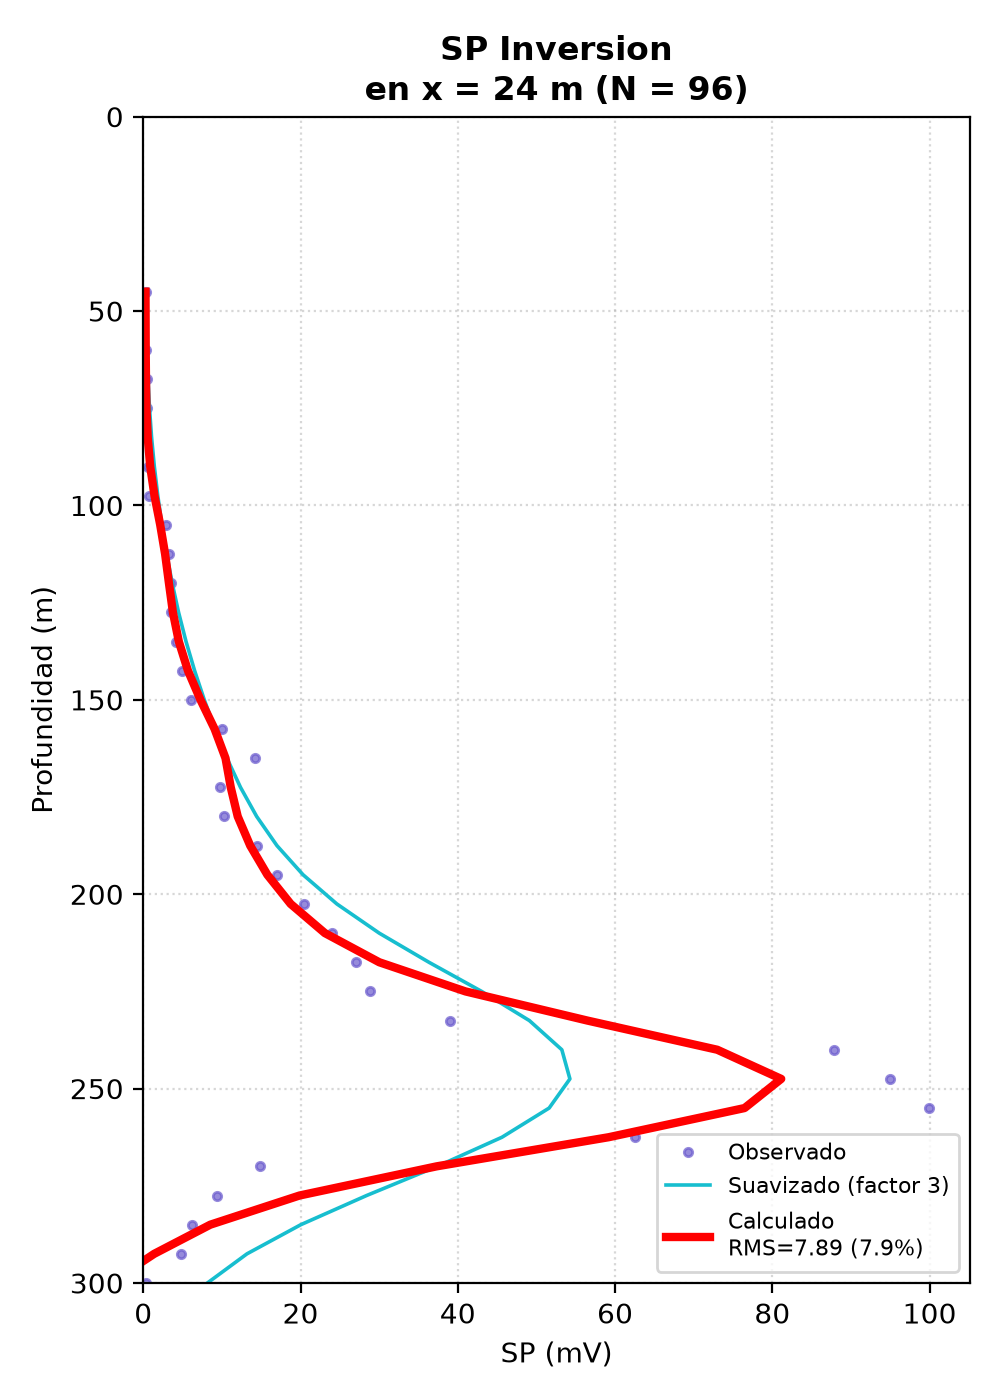
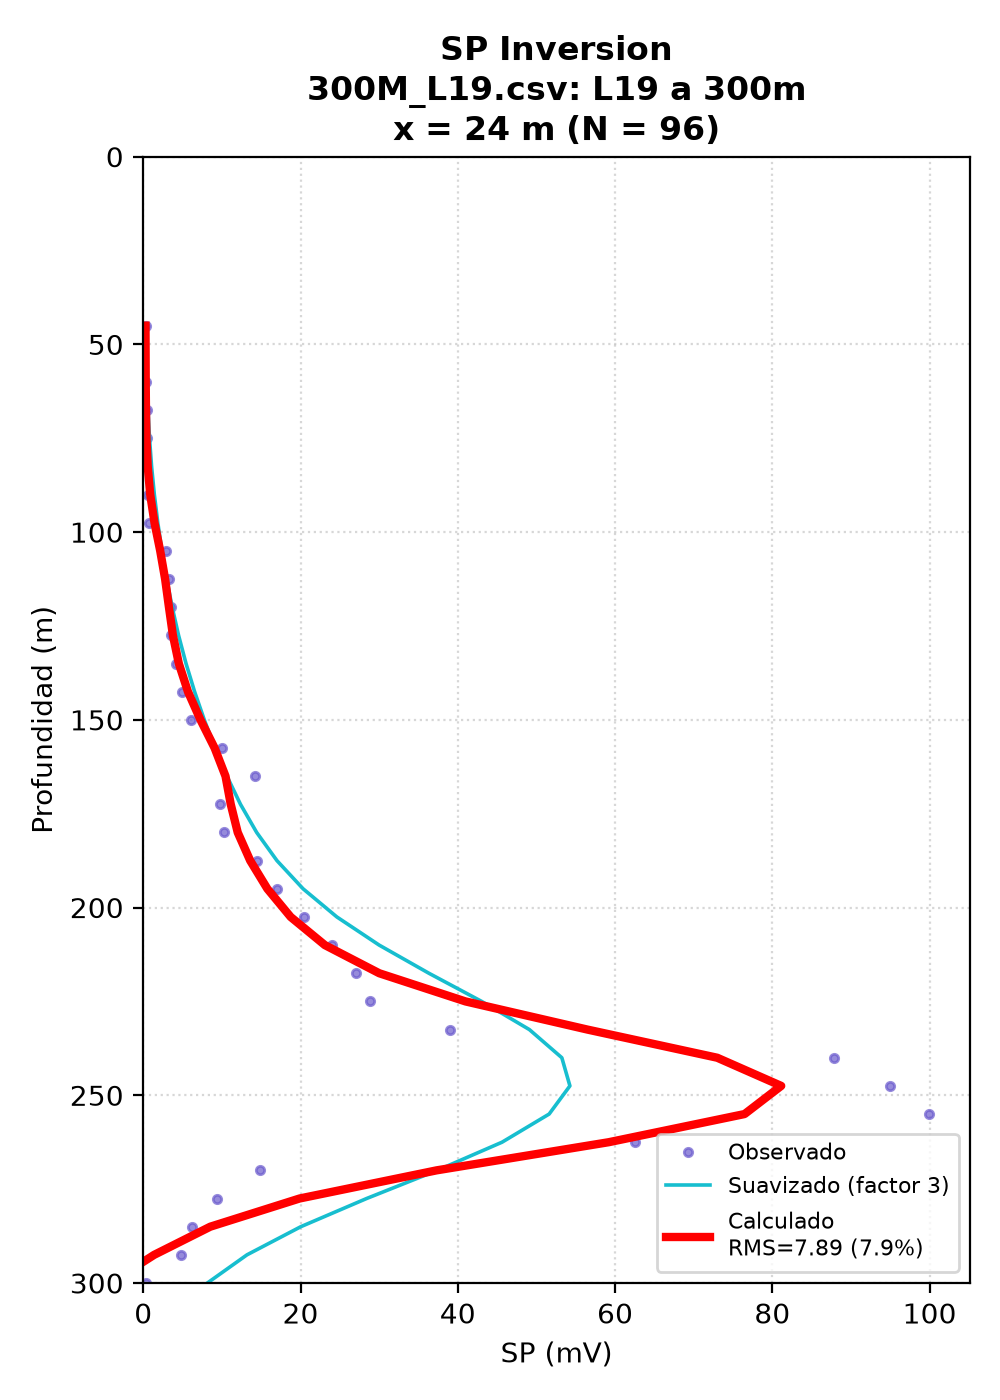
Add source CSV and 'L## a ###m' label to every figure title
Claude-Session: https://claude.ai/code/session_01Q2nGDhSbUmK7afAcFQ8b9A

diff --git a/tefsm_figuras.py b/tefsm_figuras.py
@@ -129,6 +129,13 @@ ESTILOS = {1.1: (":", None), 1.4: ("-", None), 1.6: (":", "^"),
 # ----------------------------------------------------------------------------
 # Figuras 2, 4, 6
 # ----------------------------------------------------------------------------
+def etiqueta_csv(path):
+    """'150M_L89.csv' -> '150M_L89.csv: L89 a 150m' (registro y rango de profundidad del nombre)."""
+    nombre = os.path.basename(path)
+    m = re.match(r"(\d+)\s*M_L(\d+)", os.path.splitext(nombre)[0], re.I)
+    return f"{nombre}: L{m.group(2)} a {m.group(1)}m" if m else nombre
+
+
 def figura_modulo(args):
     df = leer(args.archivo, ["y_m", "f_hz", "ey_mv"], ["fase_deg"])
     y, f, E = a_malla(df, "ey_mv")
@@ -183,6 +190,7 @@ def figura_modulo(args):
         ax.set_title("(c)", y=-0.2)
         fig.colorbar(cf, ax=ax, label="φ / (°)", pad=0.03)
 
+    fig.suptitle(f"Módulo de Ey - {etiqueta_csv(args.archivo)}", fontweight="bold")
     guardar(fig, args)
 
 
@@ -255,6 +263,7 @@ def figura_pseudo(args):
     ax.set_ylim(-hmax, 0)
     fig.colorbar(cf, ax=ax, orientation="horizontal", pad=0.04, shrink=0.8,
                  label=r"$\log_{10}(\Delta V/\Delta V_{min})$")
+    ax.set_title(f"Pseudo-sección normalizada (Fig. 13)\n{etiqueta_csv(args.archivo)}", fontweight="bold", pad=42)
     guardar(fig, args)
 
 
@@ -335,6 +344,7 @@ def figura_vertical(args):
         axl.xaxis.tick_top()
         handles = [plt.Rectangle((0, 0), 1, 1, fc=c, ec="k") for c in paleta.values()]
         fig.legend(handles, list(paleta), loc="lower center", ncol=len(paleta), fontsize=8, frameon=False)
+    fig.suptitle(f"Perfil vertical de EPD (Fig. 3)\n{etiqueta_csv(args.archivo)}", fontweight="bold")
     args.nombre = args.nombre or "fig3_perfil_vertical"
     guardar(fig, args)
 
@@ -363,6 +373,7 @@ def figura_horizontal(args):
         zy0, zy1 = (z[2], z[3]) if len(z) == 4 else (y0, y1)
         ax.add_patch(plt.Rectangle((z[0], zy0), z[1] - z[0], zy1 - zy0, fill=False, ls="--", ec="k", lw=1.4))
     ax.legend(ncol=3, fontsize=8, loc="lower right", framealpha=0.9)
+    ax.set_title(f"Perfil horizontal de EPD (Fig. 4)\n{etiqueta_csv(args.archivo)}", fontweight="bold")
     args.nombre = args.nombre or "fig4_perfil_horizontal"
     guardar(fig, args)
 
@@ -428,7 +439,7 @@ def figura_inversion(args):
     ax.set_xlim(left=0)
     ax.set_xlabel("SP (mV)")
     ax.set_ylabel("Profundidad (m)")
-    ax.set_title(f"SP Inversion\nen x = {xs:g} m (N = {n[j]:g})", fontweight="bold")
+    ax.set_title(f"SP Inversion\n{etiqueta_csv(args.archivo)}\nx = {xs:g} m (N = {n[j]:g})", fontweight="bold")
     ax.grid(ls=":", alpha=0.5)
     fig.tight_layout()
     ruta = os.path.join(args.salida, f"SP_Inversion_{base}.png")
@@ -452,7 +463,7 @@ def figura_inversion(args):
     ax.set_ylim(args.prof, 0)
     ax.set_xlabel("Resistividad (ohm·m)")
     ax.set_ylabel("Profundidad (m)")
-    ax.set_title(f"Modelo de resistividad (aproximado)\nx = {xs:g} m (N = {n[j]:g})", fontweight="bold")
+    ax.set_title(f"Modelo de resistividad (aproximado)\n{etiqueta_csv(args.archivo)}\nx = {xs:g} m (N = {n[j]:g})", fontweight="bold")
     ax.grid(ls=":", alpha=0.5, which="both")
     fig.text(0.5, 0.005, f"Mapeo empírico de la EPD a {args.rho_min:g}–{args.rho_max:g} ohm·m; no es una inversión física",
              ha="center", fontsize=7, color="#555")
